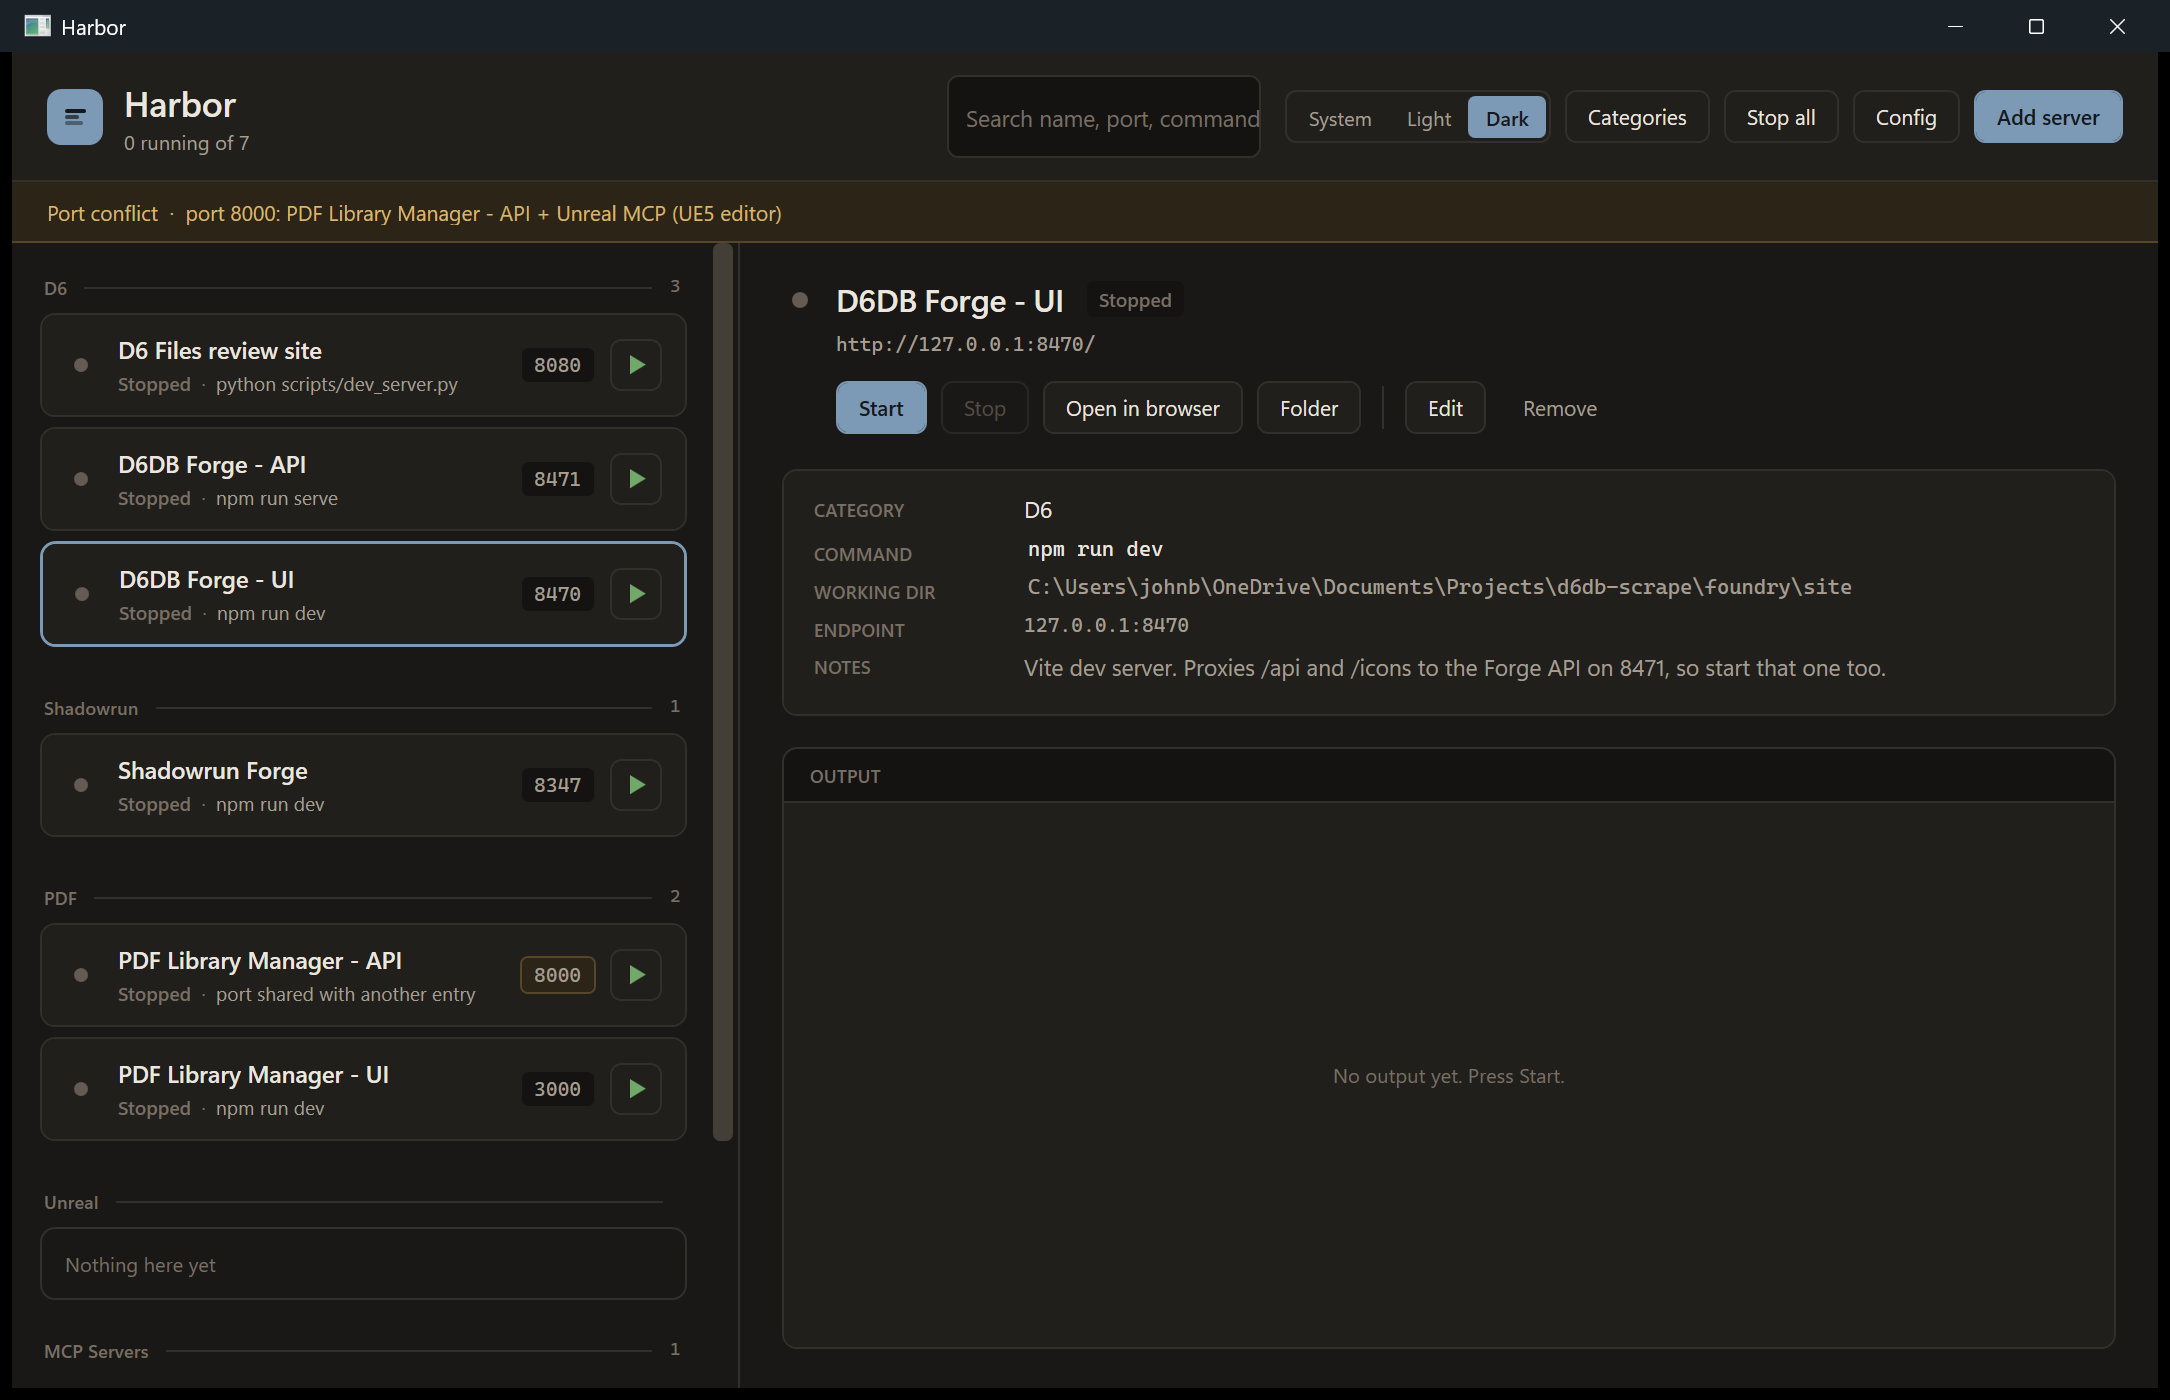
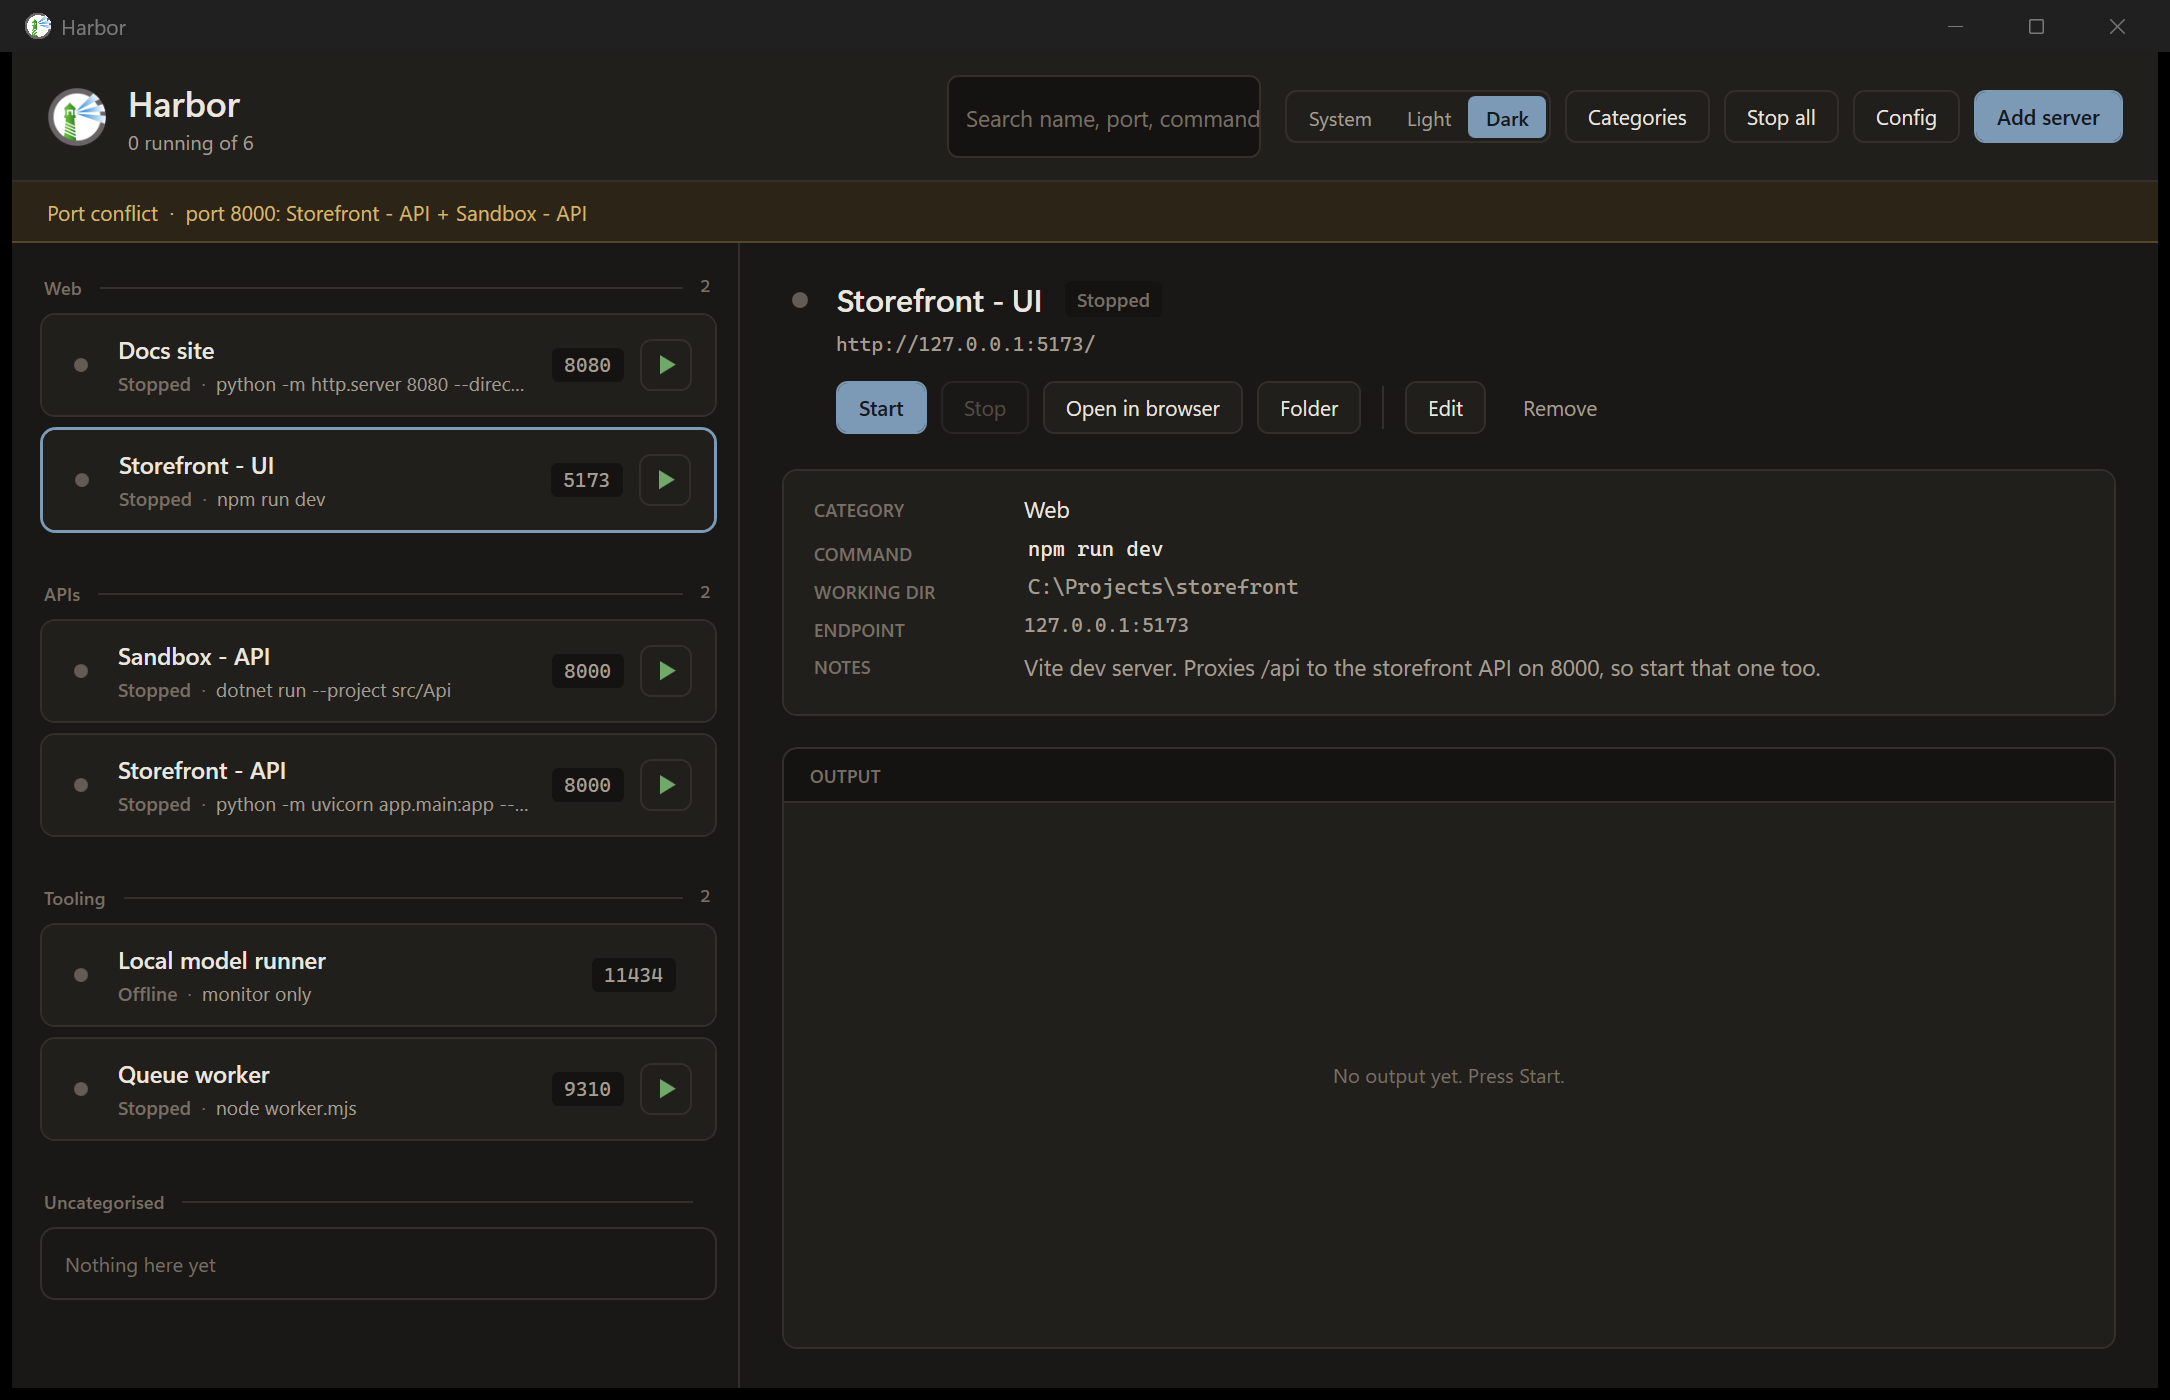
Ship no configuration data; document manual install
Harbor is the application only. Configuration describes one particular
machine - local paths, ports, sometimes internal hostnames - so none of it
belongs in the repository.

- Remove seed/servers.seed.json and drop the csproj item that copied it to
  the output, so a publish produces the executable and nothing else.
- Ignore seed/ and servers*.json outright.
- Replace the screenshots: the previous ones showed real server names and
  full local paths. The new ones use a fabricated demo config.
- README gains step-by-step manual install and uninstall instructions, and
  states plainly that no configuration ships. servers.seed.json is now
  described as an optional restore point the user creates.

A fresh install starts with an empty list rather than someone else's
servers, which is the correct first-run experience anyway.

diff --git a/README.md b/README.md
@@ -60,28 +60,47 @@ Add `--self-contained true` for a build that does not need the runtime installed
 
 ## Install
 
-Harbor is xcopy-deployable. Put `Harbor.exe` wherever you like — `%APPDATA%\Harbor\` is a
-reasonable home — and make a shortcut to it.
+There is no installer. Harbor is a single executable and copying it into place is the whole
+procedure.
 
-Two notes worth knowing:
+1. **Get the exe** — download `Harbor.exe` from the
+   [latest release](https://github.com/jbowensii/Harbor/releases), or build it yourself with the
+   publish command above.
+2. **Choose a folder.** `%APPDATA%\Harbor\` works well: paste
+   `%APPDATA%\Harbor` into the Explorer address bar, create the folder, and drop `Harbor.exe` in.
+   Any folder you can write to is fine — Harbor keeps its configuration in `%APPDATA%\Harbor\`
+   regardless of where the exe lives.
+3. **Copy `harbor.ico`** (from `src/Harbor/` in this repo) next to the exe.
+4. **Make a shortcut.** Right-drag `Harbor.exe` to the Desktop → *Create shortcuts here*. Then
+   right-click the shortcut → *Properties* → *Change Icon* → browse to `harbor.ico`.
 
-- Point the shortcut's **icon at `harbor.ico`**, not at the exe. The Windows shell extracts icons
-  from single-file .NET executables unreliably, and the shortcut loses its icon on reinstall.
-- Copy `servers.seed.json` next to the exe. On first run, when there is no `servers.json`, Harbor
-  imports the seed — which makes it a useful restore point as well as a first-run example.
+   Point the icon at **`harbor.ico`, not at the exe**. The Windows shell extracts icons from
+   single-file .NET executables unreliably, and a shortcut that takes its icon from the exe tends
+   to lose it whenever the exe is replaced.
+5. **Run it.** The first launch starts with an empty list. Press **Add server** to create your
+   first entry.
+
+To uninstall, delete the exe and the `%APPDATA%\Harbor` folder. Nothing is written to the
+registry, and no services or startup entries are created.
 
 ## Files
 
-Everything lives in `%APPDATA%\Harbor\`:
+Harbor keeps everything in `%APPDATA%\Harbor\`. The **Config** button in the header opens that
+folder.
 
 | File | Purpose |
 |---|---|
 | `servers.json` | Your configuration: theme, ordered categories, servers |
 | `servers.json.bak` | Previous generation, rewritten on each save |
-| `servers.seed.json` | Imported when `servers.json` is missing |
 | `harbor.log` | Activity log, rolls to `harbor.log.1` at 1 MB |
+| `servers.seed.json` | *Optional.* If present next to the exe, it is imported when `servers.json` is missing |
 
-The **Config** button in the header opens that folder.
+**No configuration ships with this repository.** `servers.json` describes one particular machine —
+local paths, ports, sometimes internal hostnames — so it is yours to create and is git-ignored
+here.
+
+`servers.seed.json` is a convenience you can opt into: copy your own `servers.json` next to the
+exe under that name and it becomes a restore point, re-imported if the live config is ever lost.
 
 Saves go to a temp file and are then swapped in, so an interrupted save cannot truncate the real
 one. A config that fails to parse is copied to `servers.json.broken-<timestamp>` rather than
@@ -115,7 +134,6 @@ src/Harbor/
   Views/        MainWindow, EditServerWindow, CategoryManagerWindow, TextPromptWindow
   Themes/       Light.xaml and Dark.xaml - the whole design system, twice
 build/          make-icon.ps1 (multi-size .ico), preview-icon.ps1 (contact sheet)
-seed/           servers.seed.json - generic example
 ```
 
 ### Notes for anyone editing the XAML

diff --git a/RELEASE-NOTES.md b/RELEASE-NOTES.md
@@ -59,8 +59,9 @@ loads also log a listing of the config folder as that process saw it.
 - A config that fails to parse is preserved as `servers.json.broken-<timestamp>` instead of being
   overwritten.
 - A config with neither servers nor categories is treated as damage and restored from
-  `servers.seed.json`. That state cannot arise in normal use — deleting the last server leaves
-  the categories behind — so nothing deliberately removed is resurrected.
+  `servers.seed.json`, if you have chosen to place one next to the exe. That state cannot arise
+  in normal use — deleting the last server leaves the categories behind — so nothing
+  deliberately removed is resurrected.
 - The application icon is a crop of the source artwork, not a copy of it: the original has a thin
   ring and hairline detail that collapse below 48px, so the icon zooms past the ring and adds a
   hairline rim that survives 16px.
@@ -72,6 +73,16 @@ loads also log a listing of the config folder as that process saw it.
 - Status detection is TCP-only. A UDP-based service will always read as stopped.
 - Harbor does not restart a server that exits on its own; it reports the exit code and waits.
 - There is no autostart-on-login option yet.
+
+### Install
+
+There is no installer. Copy `Harbor.exe` into a folder of your choice — `%APPDATA%\Harbor\` is a
+good default — put `harbor.ico` beside it, and make a Desktop shortcut whose icon points at the
+`.ico` rather than the exe. Full steps are in the README. Nothing is written to the registry and
+no startup entry is created; uninstalling is deleting the exe and the `%APPDATA%\Harbor` folder.
+
+No configuration ships with the release. The first launch starts with an empty list — press
+**Add server**.
 
 ### Requirements
 
